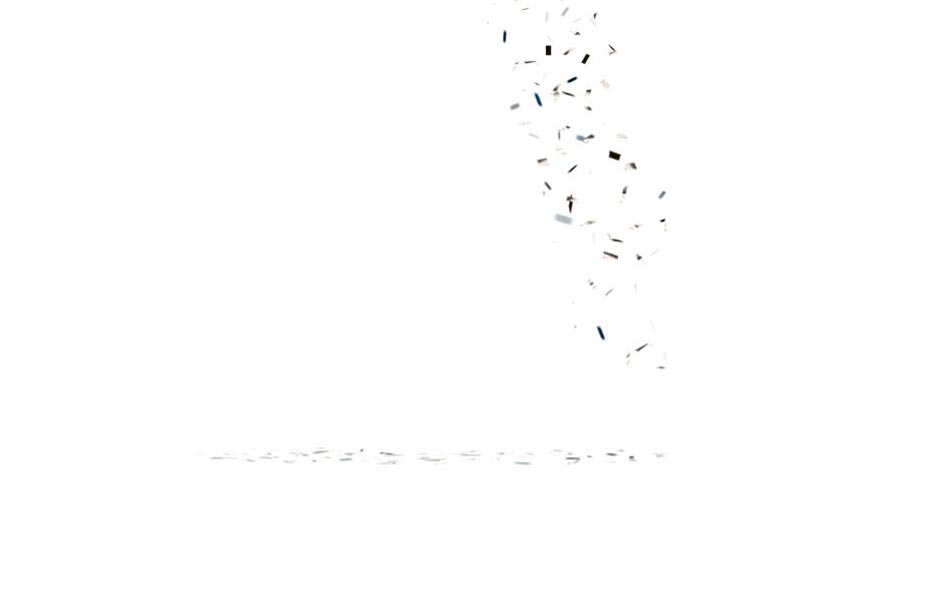
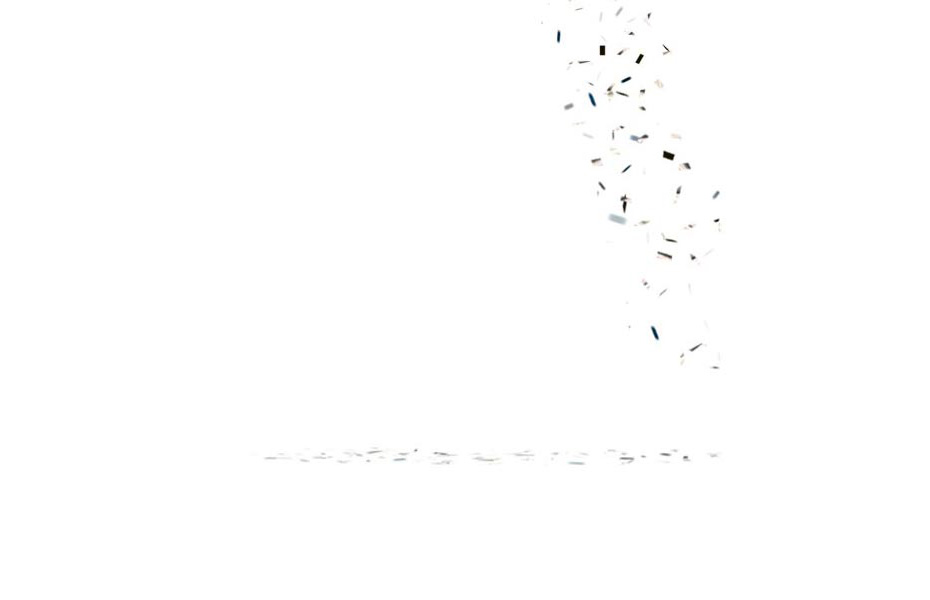
(change) - corrected a few graphic anomalies.

diff --git a/assets/styles/block/_banner.scss b/assets/styles/block/_banner.scss
@@ -118,7 +118,7 @@ $_banner_height: 600px;
   display: block;
   position: absolute;
   left: calc(50% - (425px * 0.4));
-  top: 120px;
+  top: 130px;
   height: 340px;
   width: 425px;
 }
